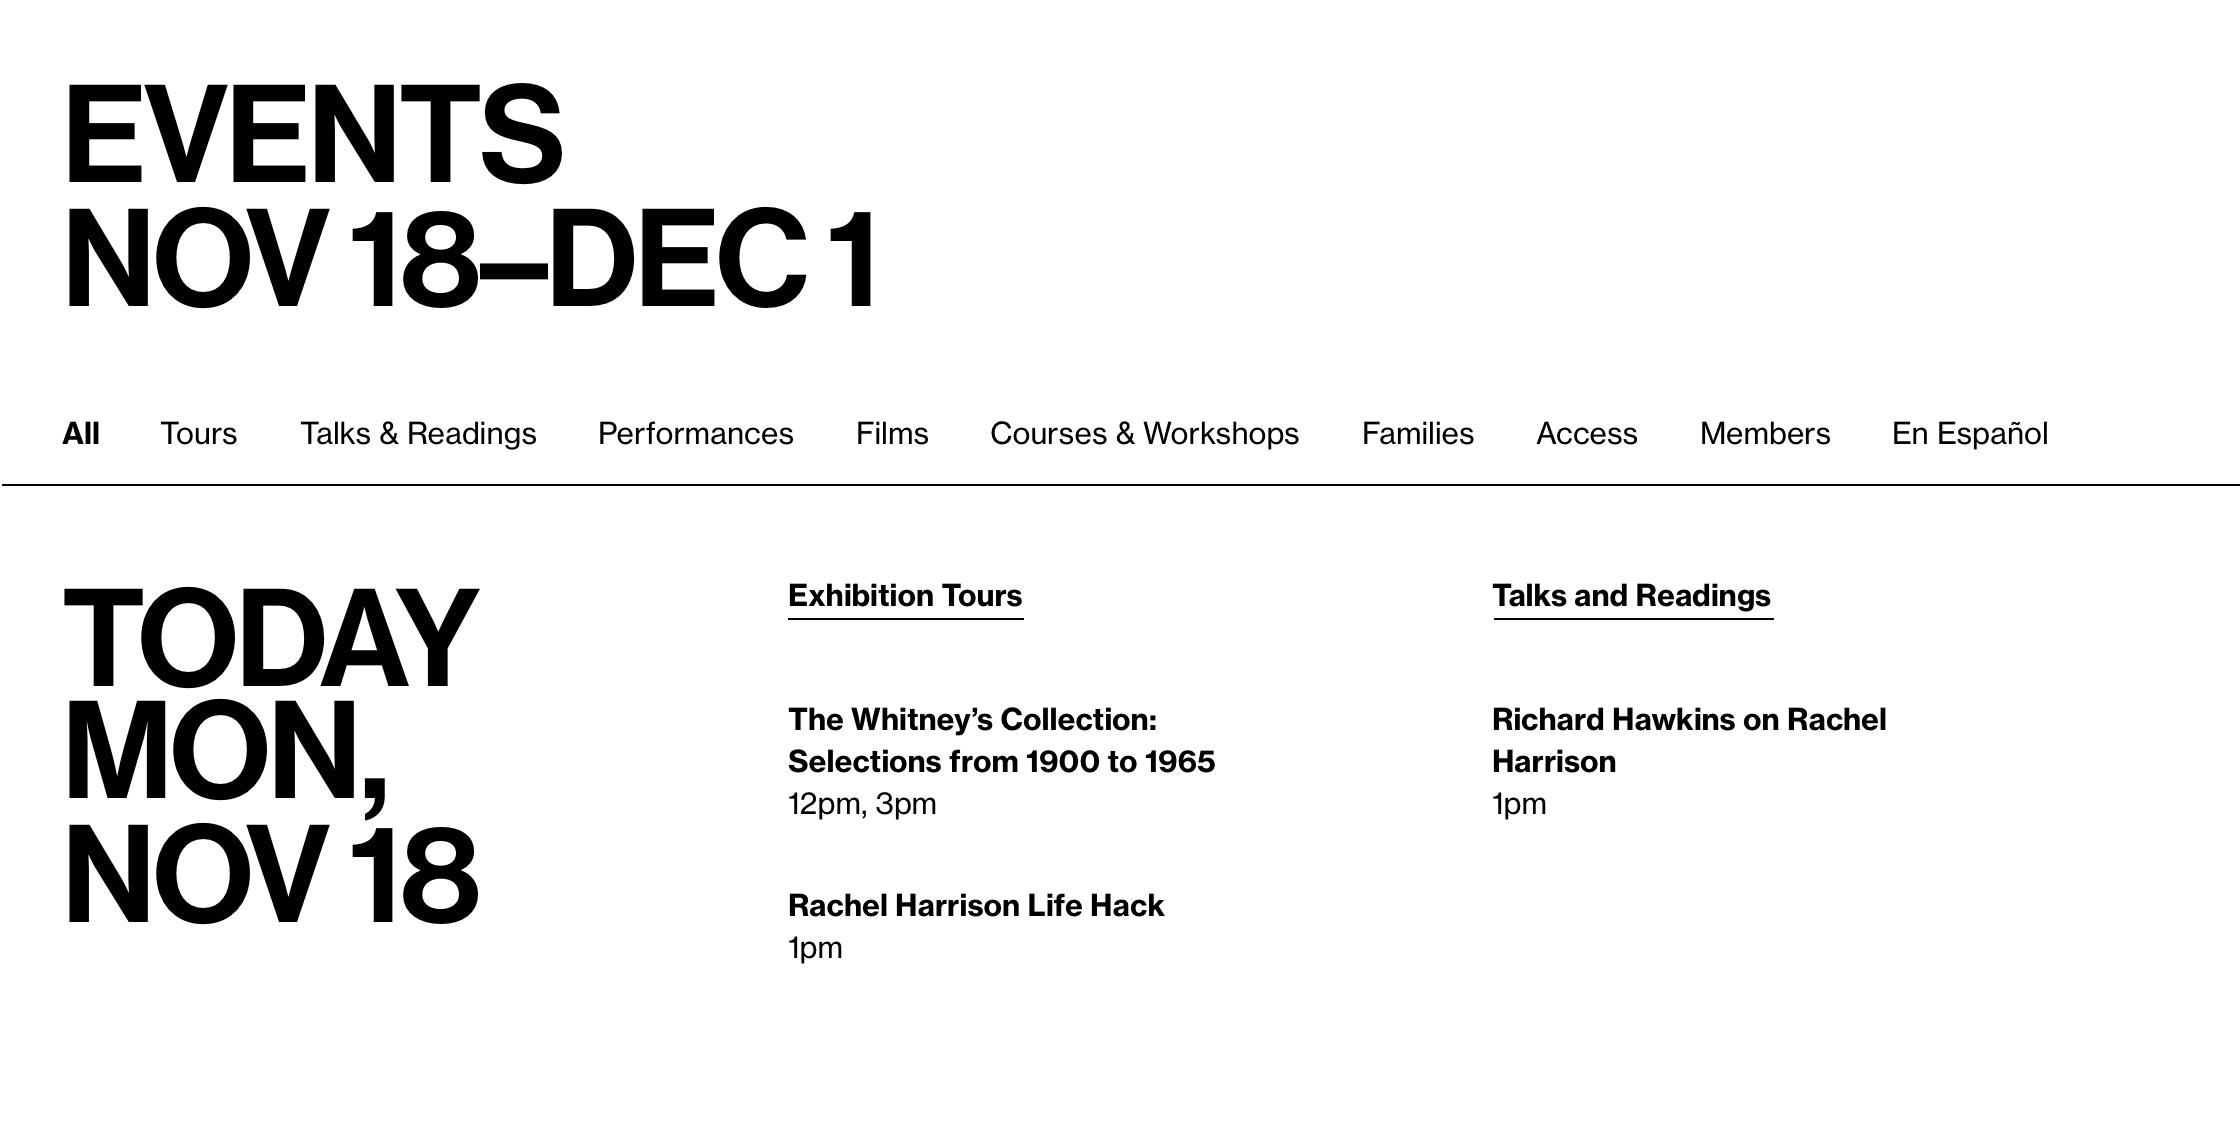
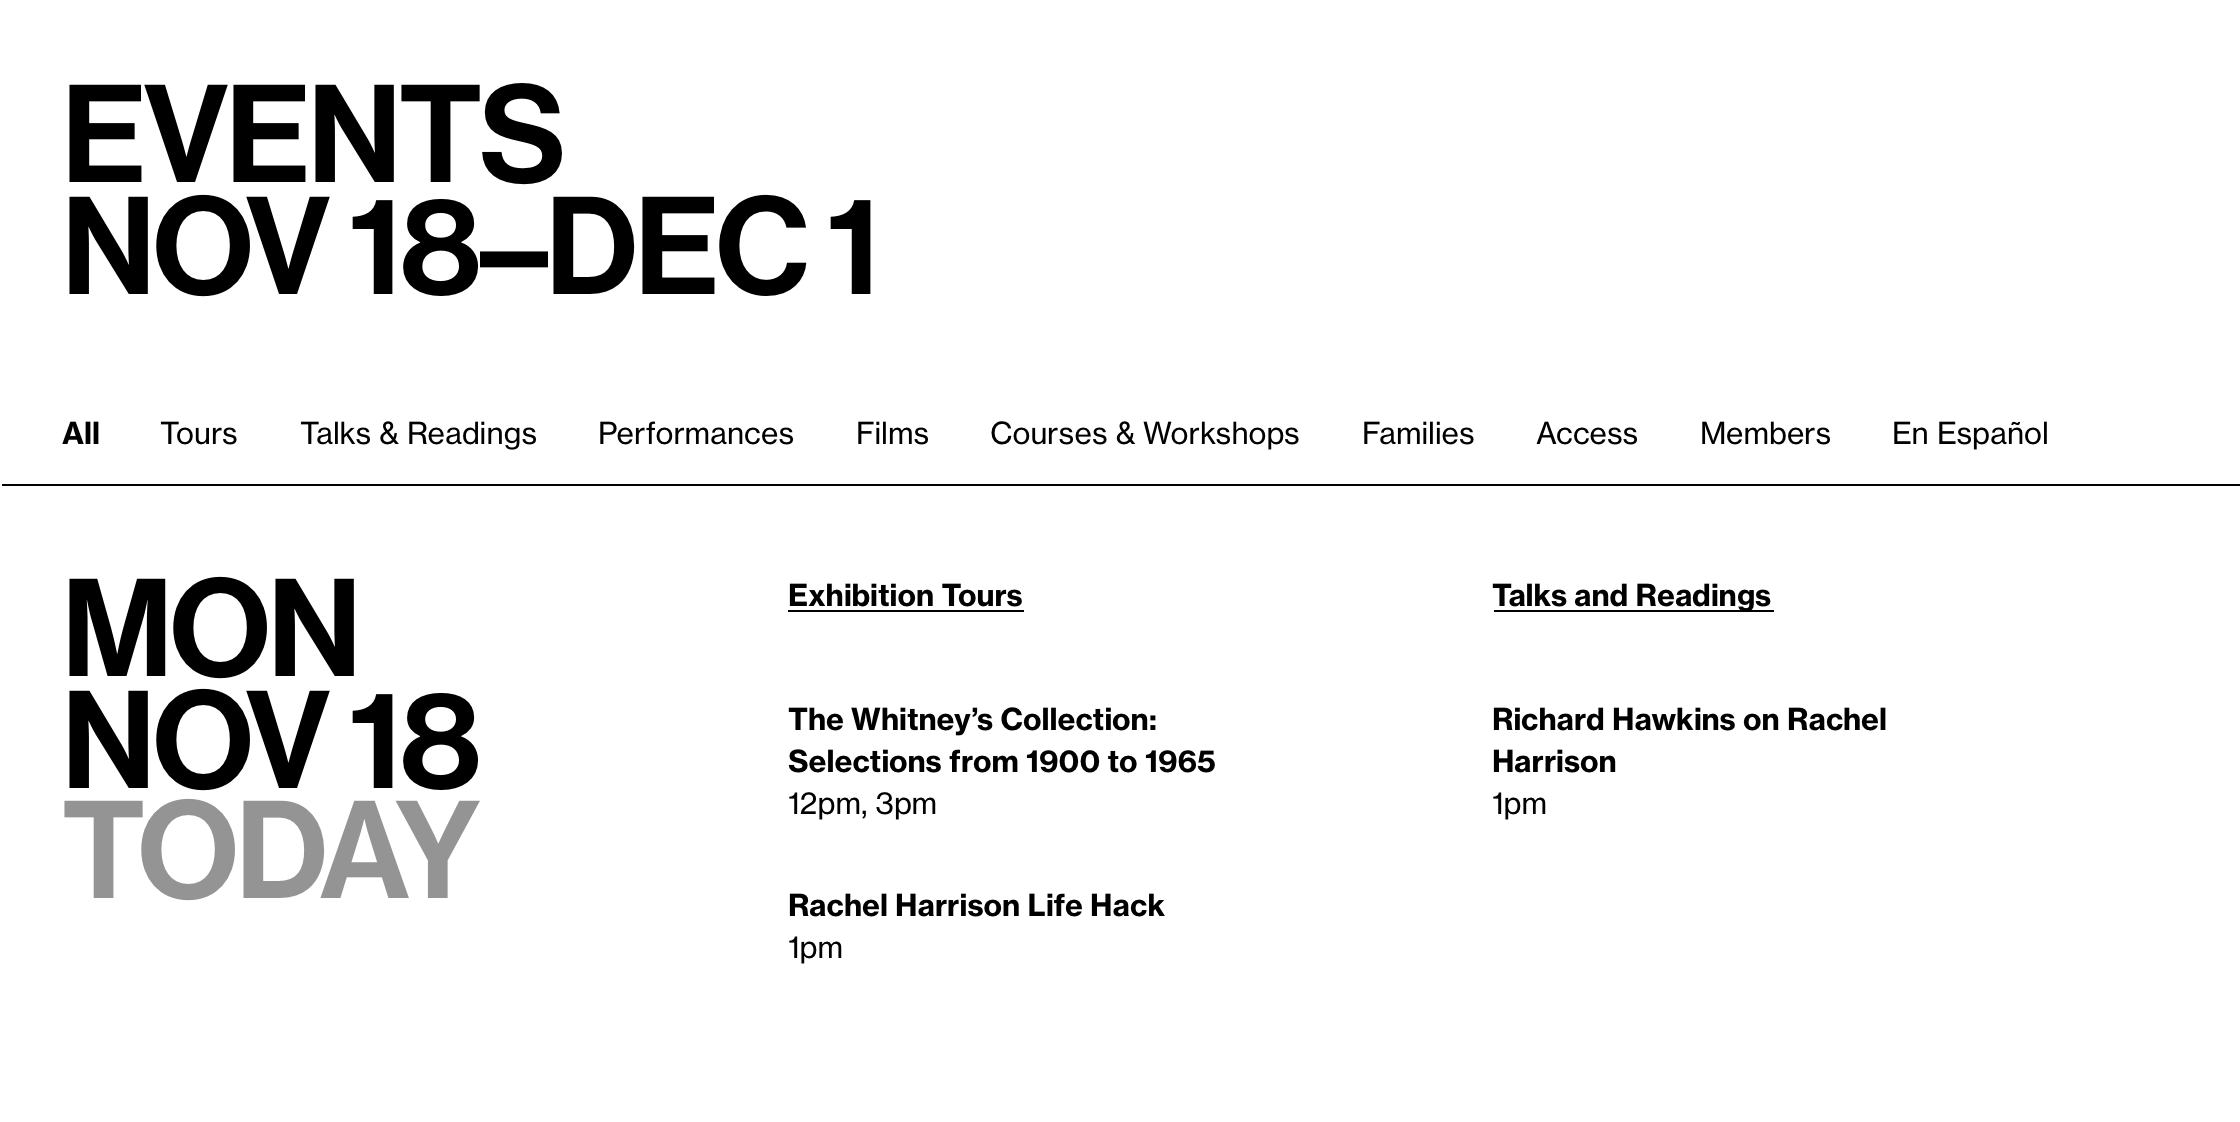
redo theme

diff --git a/assets/styles.scss b/assets/styles.scss
@@ -9,7 +9,3 @@ styles: true
 @import 'typography';
 @import 'navigation';
 @import 'sections';
-
-body {
-  background: red;
-}
